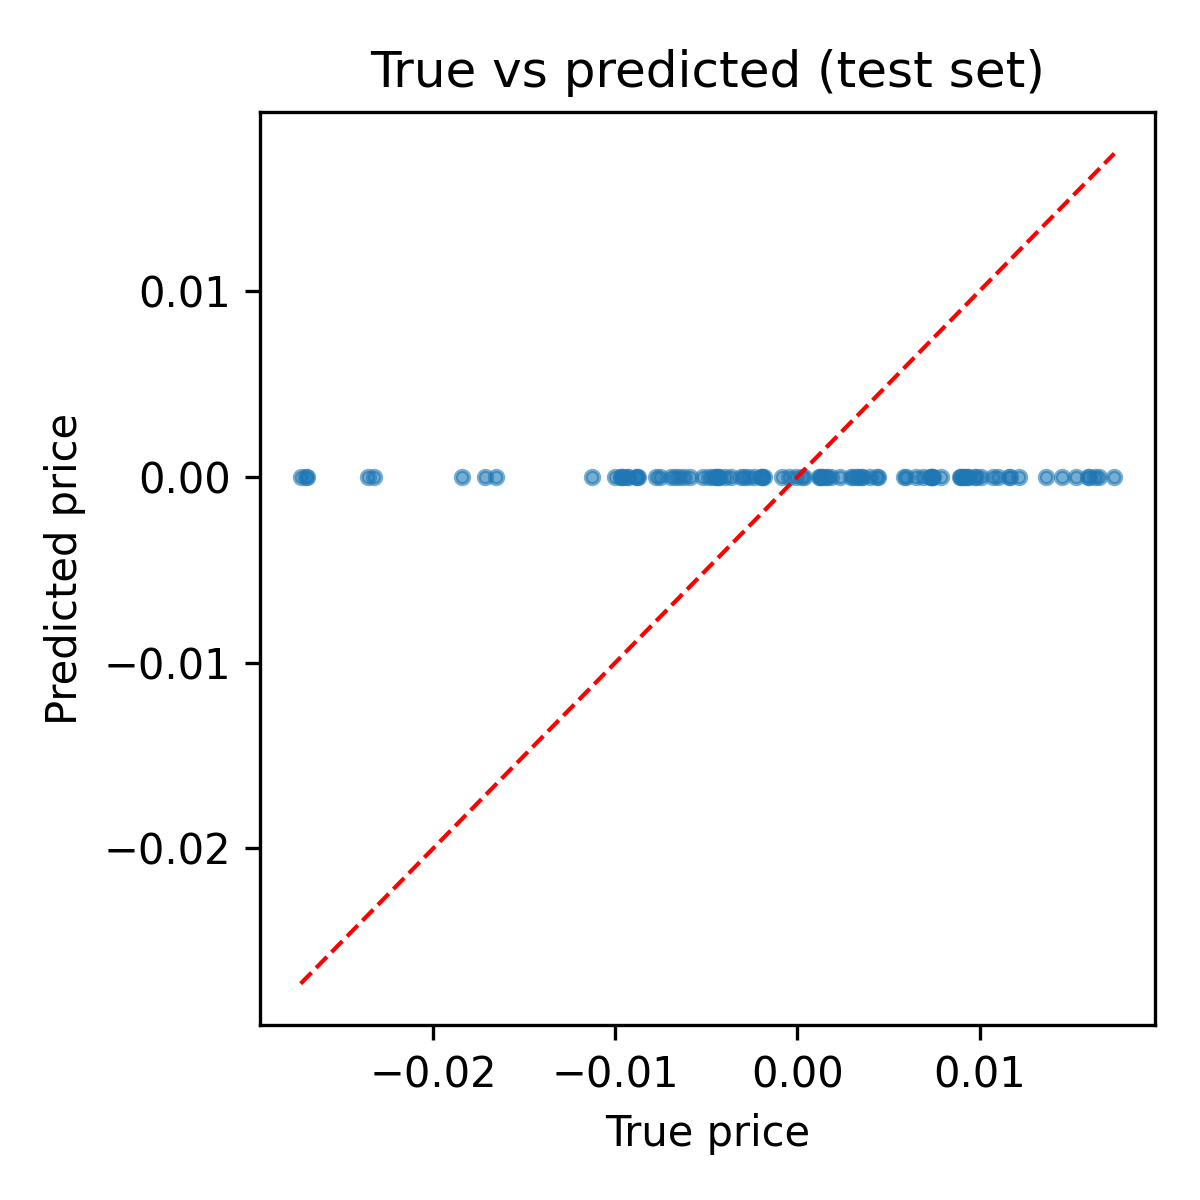
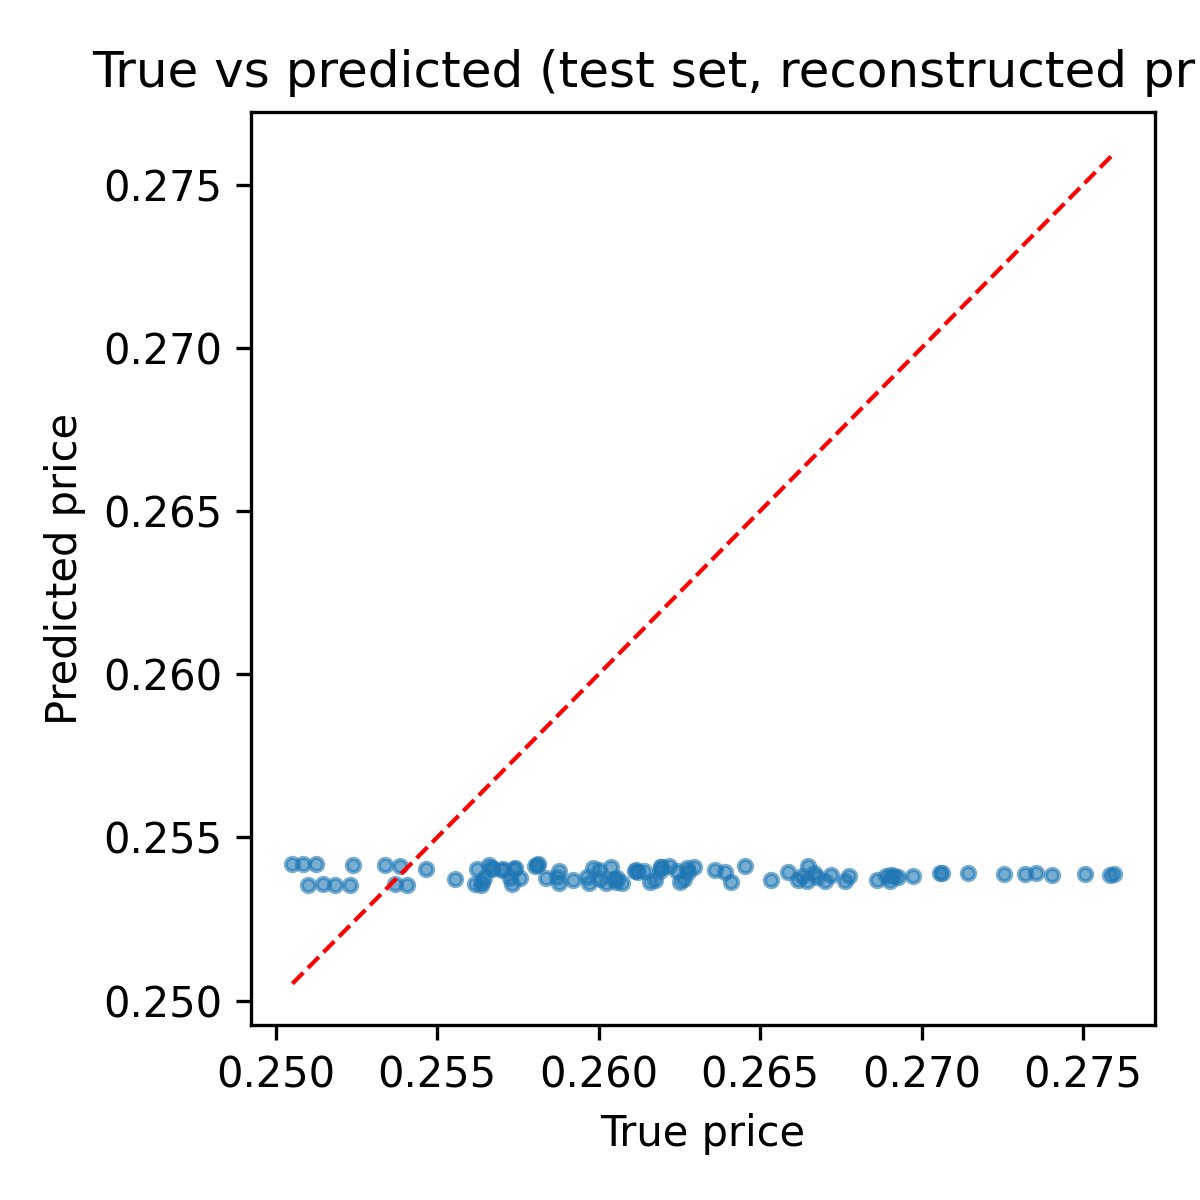
Target Z-score, RidgeCV default, and reconstructed price plots
- DataLoader: Z-score normalize target y; expose last_price_before_test_ for log-return runs
- main: inverse-transform y for metrics/plots; reconstruct price trajectories when use_log_returns and plot them with correct Option price label
- model: default classical_backend to ridge; use RidgeCV with ridge_alphas for RC readout

Made-with: Cursor

diff --git a/main.py b/main.py
@@ -127,7 +127,7 @@ def parse_args() -> argparse.Namespace:
     parser.add_argument(
         "--model_type",
         type=str,
-        default="mlp",
+        default="ridge",
         choices=["mlp", "ridge", "lgbm"],
         help="Classical backend to use on top of quantum features.",
     )
@@ -195,27 +195,62 @@ def main() -> None:
     model.fit(X_train, y_train)
 
     print("=== Evaluating on test set ===")
-    metrics = model.evaluate(X_test, y_test)
+    # Predict in normalized space
+    y_pred_norm = model.predict(X_test)
+
+    # Inverse-transform targets and predictions back to original scale
+    target_mean = getattr(loader, "target_mean_", None)
+    target_std = getattr(loader, "target_std_", None)
+
+    if target_mean is not None and target_std is not None:
+        y_test_orig = y_test * target_std + target_mean
+        y_pred_orig = y_pred_norm * target_std + target_mean
+    else:
+        y_test_orig = y_test
+        y_pred_orig = y_pred_norm
+
+    # Compute metrics on original scale
+    mse = float(np.mean((y_pred_orig - y_test_orig) ** 2))
+    mae = float(np.mean(np.abs(y_pred_orig - y_test_orig)))
+    rmse = float(np.sqrt(mse))
+
     print("Test metrics:")
-    for k, v in metrics.items():
-        print(f"  {k}: {v:.6f}")
+    print(f"  mse: {mse:.6f}")
+    print(f"  rmse: {rmse:.6f}")
+    print(f"  mae: {mae:.6f}")
 
     # ------------------------------------------------------------------
     # Plot and save prediction results
     # ------------------------------------------------------------------
     print("=== Plotting results ===")
-    y_pred = model.predict(X_test)
+
+    # If we used log returns, reconstruct price trajectories for plotting
+    last_price = getattr(loader, "last_price_before_test_", None)
+    if last_price is not None and last_price > 0:
+        true_prices = last_price * np.exp(np.cumsum(y_test_orig))
+        pred_prices = last_price * np.exp(np.cumsum(y_pred_orig))
+        plot_ylabel = "Option price (reconstructed)"
+        plot_title_ts = "Test set: true vs predicted (reconstructed prices)"
+        plot_title_sc = "True vs predicted (test set, reconstructed prices)"
+        y_plot_true = true_prices
+        y_plot_pred = pred_prices
+    else:
+        plot_ylabel = "Target (original scale)"
+        plot_title_ts = "Test set: true vs predicted"
+        plot_title_sc = "True vs predicted (test set)"
+        y_plot_true = y_test_orig
+        y_plot_pred = y_pred_orig
 
     results_dir = Path("results")
     results_dir.mkdir(exist_ok=True)
 
     # Time-series plot: true vs predicted
     fig_ts, ax_ts = plt.subplots(figsize=(8, 4))
-    ax_ts.plot(y_test, label="True", linewidth=1.5)
-    ax_ts.plot(y_pred, label="Predicted", linewidth=1.2, alpha=0.8)
+    ax_ts.plot(y_plot_true, label="True", linewidth=1.5)
+    ax_ts.plot(y_plot_pred, label="Predicted", linewidth=1.2, alpha=0.8)
     ax_ts.set_xlabel("Test sample index")
-    ax_ts.set_ylabel("Option price (normalized units)")
-    ax_ts.set_title("Test set: true vs predicted prices")
+    ax_ts.set_ylabel(plot_ylabel)
+    ax_ts.set_title(plot_title_ts)
     ax_ts.legend()
     fig_ts.tight_layout()
     fig_ts.savefig(results_dir / "test_timeseries.png", dpi=300)
@@ -223,13 +258,13 @@ def main() -> None:
 
     # Scatter plot: true vs predicted
     fig_sc, ax_sc = plt.subplots(figsize=(4, 4))
-    ax_sc.scatter(y_test, y_pred, alpha=0.6, s=10)
-    min_val = float(min(y_test.min(), y_pred.min()))
-    max_val = float(max(y_test.max(), y_pred.max()))
+    ax_sc.scatter(y_plot_true, y_plot_pred, alpha=0.6, s=10)
+    min_val = float(min(y_plot_true.min(), y_plot_pred.min()))
+    max_val = float(max(y_plot_true.max(), y_plot_pred.max()))
     ax_sc.plot([min_val, max_val], [min_val, max_val], "r--", linewidth=1)
-    ax_sc.set_xlabel("True price")
-    ax_sc.set_ylabel("Predicted price")
-    ax_sc.set_title("True vs predicted (test set)")
+    ax_sc.set_xlabel("True price" if last_price else "True target")
+    ax_sc.set_ylabel("Predicted price" if last_price else "Predicted target")
+    ax_sc.set_title(plot_title_sc)
     fig_sc.tight_layout()
     fig_sc.savefig(results_dir / "test_scatter.png", dpi=300)
     plt.close(fig_sc)

diff --git a/src/data_loader.py b/src/data_loader.py
@@ -69,8 +69,12 @@ class DataLoader:
         # Normalization parameters (computed from training data only)
         self.feature_mean_: Optional[float] = None
         self.feature_std_: Optional[float] = None
+        self.target_mean_: Optional[float] = None
+        self.target_std_: Optional[float] = None
         # PCA model (fitted on training set only, if used)
         self.pca_: Optional[PCA] = None
+        # When use_log_returns is True: last raw price before the first test step (for reconstructing price trajectories)
+        self.last_price_before_test_: Optional[float] = None
 
     # ------------------------------------------------------------------
     # Core loading utilities
@@ -186,19 +190,38 @@ class DataLoader:
         X_test = X[split_idx:]
         y_test = y[split_idx:]
 
+        # Expose last raw price before test set (for log-return → price reconstruction in main)
+        if self.config.use_log_returns:
+            # First test target is the return at frame row (lookback + split_idx); price before it is raw[lookback + split_idx]
+            lookback = self.config.lookback_window
+            idx_last = lookback + split_idx
+            if idx_last < len(raw):
+                self.last_price_before_test_ = float(raw.iloc[idx_last, 0])
+            else:
+                self.last_price_before_test_ = None
+        else:
+            self.last_price_before_test_ = None
+
         # Optional downsampling for quick experiments
         if self.config.max_samples is not None:
             max_n = self.config.max_samples
             X_train = X_train[:max_n]
             y_train = y_train[:max_n]
 
-        # Fit normalization on training features only (scalar z-score)
+        # Fit normalization on training features and target only (scalar z-score)
         if self.config.normalize_method == "zscore":
             self.feature_mean_ = float(X_train.mean())
             self.feature_std_ = float(X_train.std(ddof=0) + 1e-8)
 
             X_train = (X_train - self.feature_mean_) / self.feature_std_
             X_test = (X_test - self.feature_mean_) / self.feature_std_
+
+            # Target normalization
+            self.target_mean_ = float(y_train.mean())
+            self.target_std_ = float(y_train.std(ddof=0) + 1e-8)
+
+            y_train = (y_train - self.target_mean_) / self.target_std_
+            y_test = (y_test - self.target_mean_) / self.target_std_
         else:
             raise ValueError(
                 f"Unsupported normalize_method: {self.config.normalize_method}. "

diff --git a/src/model.py b/src/model.py
@@ -18,7 +18,7 @@ import numpy as np
 import torch
 import torch.nn as nn
 import torch.optim as optim
-from sklearn.linear_model import Ridge
+from sklearn.linear_model import RidgeCV
 from torch.utils.data import DataLoader as TorchDataLoader
 from torch.utils.data import TensorDataset
 
@@ -39,8 +39,8 @@ class MLPConfig:
     Configuration for the classical head.
 
     Supports three backends:
-    - 'mlp'   : PyTorch MLPRegressor (default)
-    - 'ridge' : scikit-learn Ridge regression
+    - 'ridge' : scikit-learn RidgeCV (default, recommended)
+    - 'mlp'   : PyTorch MLPRegressor
     - 'lgbm'  : LightGBM LGBMRegressor
     """
 
@@ -52,8 +52,10 @@ class MLPConfig:
     n_epochs: int = 50
     device: str = "cpu"
 
-    classical_backend: str = "mlp"  # 'mlp', 'ridge', 'lgbm'
-    ridge_alpha: float = 1.0
+    # 'ridge' (RidgeCV) is the robust default for RC
+    classical_backend: str = "ridge"  # 'ridge', 'mlp', 'lgbm'
+    # Candidate alphas for RidgeCV; tuned via built-in CV
+    ridge_alphas: Tuple[float, ...] = (1e-3, 1e-2, 1e-1, 1.0, 10.0, 100.0)
     lgbm_num_leaves: int = 31
     lgbm_learning_rate: float = 0.05
     lgbm_n_estimators: int = 100
@@ -163,7 +165,8 @@ class HybridQMLModel:
                       f"Train MSE: {epoch_loss:.6f}")
 
         elif backend == "ridge":
-            self.model_sklearn = Ridge(alpha=self.mlp_config.ridge_alpha)
+            # Standard RC readout: RidgeCV on reservoir features
+            self.model_sklearn = RidgeCV(alphas=self.mlp_config.ridge_alphas)
             self.model_sklearn.fit(X_q, y_train.astype(np.float64))
 
         elif backend == "lgbm":
